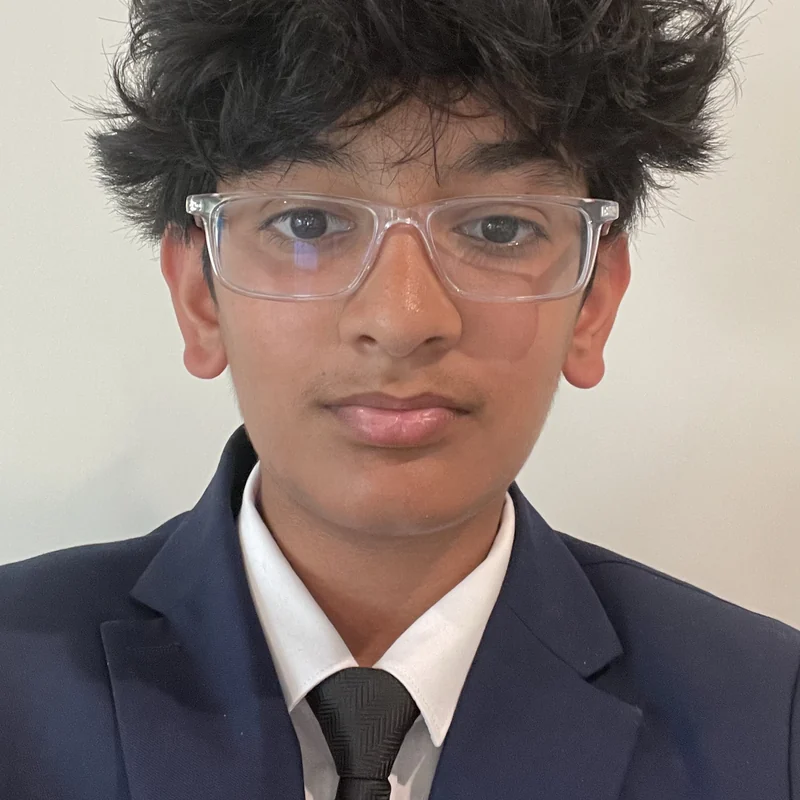
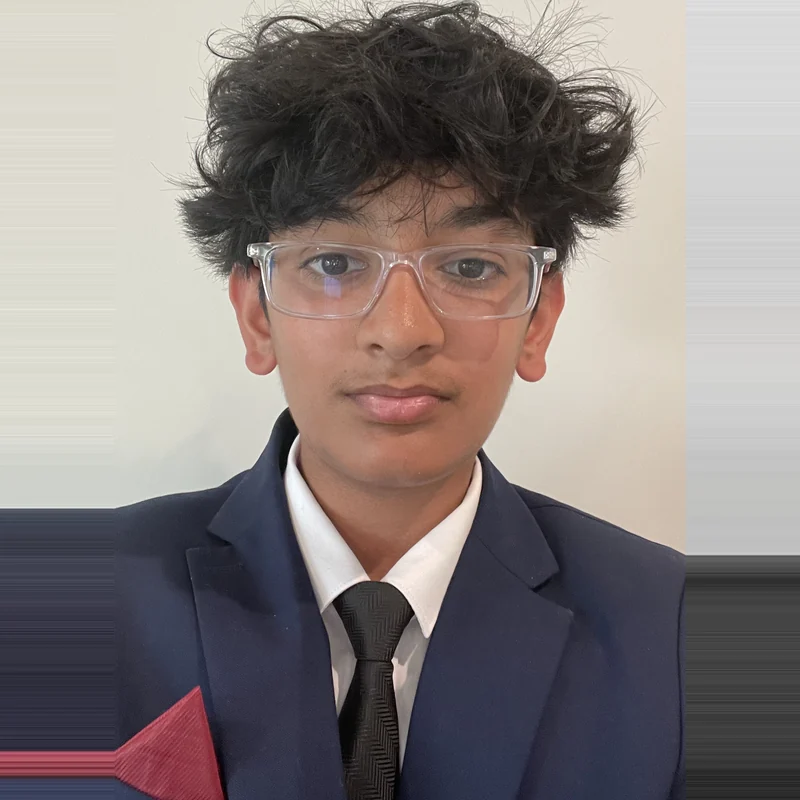
Add Nikita's photo, update three bios, advance school years
All twelve members now have a real photo; no Gravatar placeholders
remain on the team page.

Ridhun's photo is reframed wider. The source is a tight close-up with no
room left to crop into, so the canvas is extended using edge replication
before cropping. His background is a flat wall, which extends invisibly,
and the suit rows extend as suit rather than smearing wall colour across
them. Tested 20, 35 and 50 percent extension; 20 reads naturally while
50 shows visible banding.

Bios replaced verbatim as supplied for Ridhun Gujja, Hareeth Dhayanandh,
and Yutika Kedia.

School years advanced by one for everyone except Vishnu Mysore and
Yutika Kedia, whose supplied descriptions were already current:
  freshman  -> sophomore : Ridhun, Yashas, Evina, Neil, Sri
  sophomore -> junior    : Hareeth
  junior    -> senior    : Devkrishna, Nandana, Nikita, Akhil

Note that the supplied text for Ridhun and Hareeth repeated their old
years, freshman and sophomore, so the advance was applied on top of it.

Verified in Chromium: 12 member cards, 6 former, 12 images decode, zero
placeholders.

Claude-Session: https://claude.ai/code/session_019kmBwAq2FHfzFcHek2WE7v

diff --git a/team/index.html b/team/index.html
@@ -347,7 +347,7 @@
           <div class="member-name">Ridhun Gujja</div>
           <div class="member-role">Cofounder / Co-President</div>
           <div class="member-divider"></div>
-          <div class="member-bio">Hello! My name is Ridhun Gujja, and I am a freshman at the Charter School of Wilmington. Outside of SkillSphere, I am involved in BPA, Debate, Model UN, Youth in Government, and varsity Crew. In my free time, I enjoy playing badminton, cooking, and spending time with friends and family. In the future, my goal for SkillSphere is to combine STEM and business thinking by creating opportunities for students to build practical, real-world skills early on, and grow access to our free resources nationwide!</div>
+          <div class="member-bio">Hi! My name’s Ridhun Gujja, and I am a sophomore at the Charter School of Wilmington. Outside of SkillSphere, I am involved in BPA, Debate, MUN, YIG, my school newspaper and I row for my school’s crew team. In my free time, I enjoy playing badminton, cooking, and spending time with friends. In the future, my goal for SkillSphere is to combine both STEM and business thinking by creating opportunities for students to build practical, real-world skills early on, and grow access to our free resources nationwide!</div>
         </article>
 
         <article class="member-card">
@@ -362,7 +362,7 @@
           <div class="member-name">Devkrishna Manappattu</div>
           <div class="member-role">Cofounder / Co-President</div>
           <div class="member-divider"></div>
-          <div class="member-bio">Hi! My name is Devkrishna Manappattu, and I am junior at Appoquinuimink High School. Some of my interests include photography, cooking, listening to music, and playing volleyball. As a student who is deeply involved in business-related activities, I quickly became passionate and committed to creating an accessible business curriculum for youth. In the future, I hope to grow SkillSphere further to inspire and provide equitable resources for my community!</div>
+          <div class="member-bio">Hi! My name is Devkrishna Manappattu, and I am senior at Appoquinuimink High School. Some of my interests include photography, cooking, listening to music, and playing volleyball. As a student who is deeply involved in business-related activities, I quickly became passionate and committed to creating an accessible business curriculum for youth. In the future, I hope to grow SkillSphere further to inspire and provide equitable resources for my community!</div>
         </article>
 
         <!-- Row 2 -->
@@ -378,7 +378,7 @@
           <div class="member-name">Nandana Padmaraj</div>
           <div class="member-role">Director of Operations</div>
           <div class="member-divider"></div>
-          <div class="member-bio">Hi! My name is Nandana Padmaraj, I am a junior at Garnet Valley, and I am looking to go into Data Analytics and MIS. I am involved in many clubs, including FBLA and TSA, as well as having the opportunity to hold multiple treasury positions to pursue my interests. Furthermore, I have a couple of ongoing investment research projects, and I love to volunteer and support my community. In the future, I am excited to expand Skillsphere as well as take my learning to a professional level.</div>
+          <div class="member-bio">Hi! My name is Nandana Padmaraj, I am a senior at Garnet Valley, and I am looking to go into Data Analytics and MIS. I am involved in many clubs, including FBLA and TSA, as well as having the opportunity to hold multiple treasury positions to pursue my interests. Furthermore, I have a couple of ongoing investment research projects, and I love to volunteer and support my community. In the future, I am excited to expand Skillsphere as well as take my learning to a professional level.</div>
         </article>
 
         <article class="member-card">
@@ -393,20 +393,23 @@
           <div class="member-name">Yashas Chittimalla</div>
           <div class="member-role">Cofounder / Treasurer</div>
           <div class="member-divider"></div>
-          <div class="member-bio">Hey, everyone! I'm Yashas Chittimalla, and I'm currently a freshman at Newark Charter High School. Apart from Skillsphere, I'm involved in BPA, TSA, Student Council, Math League, and my school's Varsity Tennis team. I'm interested in tech, business, and finance, which is why I'm so passionate about SkillSphere. I love participating in competitions and investing in the market, and I'm always looking for new ways to learn and improve. In my free time, I play tennis and pickleball; watch football;  and bake cookies.</div>
+          <div class="member-bio">Hey, everyone! I'm Yashas Chittimalla, and I'm currently a sophomore at Newark Charter High School. Apart from Skillsphere, I'm involved in BPA, TSA, Student Council, Math League, and my school's Varsity Tennis team. I'm interested in tech, business, and finance, which is why I'm so passionate about SkillSphere. I love participating in competitions and investing in the market, and I'm always looking for new ways to learn and improve. In my free time, I play tennis and pickleball; watch football;  and bake cookies.</div>
         </article>
 
         <!-- Row 3 -->
         <article class="member-card">
           <div class="photo-rail">
             <div class="photo-badge">
-              <img src="https://www.gravatar.com/avatar/?d=mp&s=320" alt="Nikita Iyer" />
+              <img src="../images/team/nikita-iyer-400.webp"
+                   srcset="../images/team/nikita-iyer-400.webp 400w, ../images/team/nikita-iyer-800.webp 800w"
+                   sizes="128px" width="128" height="128" loading="lazy"
+                   alt="Nikita Iyer" />
             </div>
           </div>
           <div class="member-name">Nikita Iyer</div>
           <div class="member-role">Fundraising Director</div>
           <div class="member-divider"></div>
-          <div class="member-bio">Hi! My name is Nikita Iyer, and I am a junior at Charter School of Wilmington. I am involved in various clubs and organizations, and I am passionate about giving back to my community. I love to volunteer and participate in events that make a difference.</div>
+          <div class="member-bio">Hi! My name is Nikita Iyer, and I am a senior at Charter School of Wilmington. I am involved in various clubs and organizations, and I am passionate about giving back to my community. I love to volunteer and participate in events that make a difference.</div>
         </article>
 
         <article class="member-card">
@@ -421,7 +424,7 @@
           <div class="member-name">Yutika Kedia</div>
           <div class="member-role">Editor-in-Chief</div>
           <div class="member-divider"></div>
-          <div class="member-bio">Hi! My name is Yutika Kedia and I am a Junior at Middletown High School.</div>
+          <div class="member-bio">Hi! My name is Yutika Kedia and I am a senior at Middletown High school. As a part of the Outreach team, I focus on building partnerships and strengthening Skillsphere’s connections within the community. I enjoy building these relationships because I get a chance to expand our network and bring valuable opportunities to students. Outside of Skillsphere, I am involved in BPA, dance, and lacrosse. In my free time, I love hanging out with my friends, reading, traveling, and trying new foods!</div>
         </article>
 
         <article class="member-card">
@@ -436,7 +439,7 @@
           <div class="member-name">Hareeth Dhayanandh</div>
           <div class="member-role">Marketing Director</div>
           <div class="member-divider"></div>
-          <div class="member-bio">I'm Hareeth Dhayanandh, a sophomore at MOT Charter High School with a strong interest in business and leadership. I'm a state champion in speech and debate and serve as president of my school’s debate club, where I help lead and prepare students for competition. I'm also the Parliamentarian for my BPA chapter, contributing to organization and leadership within the team. Alongside my school activities, I run an online business, which has helped me build real-world skills in entrepreneurship and decision-making. I'm focused on continuing to grow as a leader and pursuing business at a top college.</div>
+          <div class="member-bio">I'm Hareeth Dhayanandh, a junior at MOT Charter High School with a strong interest in business and leadership. I'm a state champion in speech and debate and serve as president of my school’s debate club, where I help lead and prepare students for competition. I'm also the Parliamentarian for my BPA chapter, contributing to organization and leadership within the team. Alongside my school activities, I run an online business and I'm focused on continuing to grow as a leader and pursuing business.</div>
         </article>
 
         <!-- Row 4 -->
@@ -453,7 +456,7 @@
           <div class="member-name">Akhil Gajula</div>
           <div class="member-role">Outreach Coordinator</div>
           <div class="member-divider"></div>
-          <div class="member-bio">Hi! My name is Akhil Gajula, and I am a junior at MOT Charter School. I am passionate about outreach and community engagement, and I enjoy working with diverse groups of people to create meaningful connections.</div>
+          <div class="member-bio">Hi! My name is Akhil Gajula, and I am a senior at MOT Charter School. I am passionate about outreach and community engagement, and I enjoy working with diverse groups of people to create meaningful connections.</div>
         </article>
 
         <!-- Row 5 -->
@@ -469,7 +472,7 @@
           <div class="member-name">Evina Shingavi</div>
           <div class="member-role">STEM Mentor</div>
           <div class="member-divider"></div>
-          <div class="member-bio">Hi! My name is Evina Shingavi, and I am a freshman at MOT Charter School.</div>
+          <div class="member-bio">Hi! My name is Evina Shingavi, and I am a sophomore at MOT Charter School.</div>
         </article>
 
         <article class="member-card">
@@ -484,7 +487,7 @@
           <div class="member-name">Neil Virani</div>
           <div class="member-role">STEM Mentor</div>
           <div class="member-divider"></div>
-          <div class="member-bio">Hello! My name is Neil Virani, and I am a freshman at Appoquinimink High School. Some of my hobbies are swimming, running, and coding. Outside of skillsphere, I'm involved in BPA, TSA, Math League, VEX Robotics, Student Government, and varsity swim. I am very interested in tech and finance, which is why the SkillSphere Foundation means so much to me. As a student who is involved in technology, my goal is to create equal access to learning resources online for everyone!</div>
+          <div class="member-bio">Hello! My name is Neil Virani, and I am a sophomore at Appoquinimink High School. Some of my hobbies are swimming, running, and coding. Outside of skillsphere, I'm involved in BPA, TSA, Math League, VEX Robotics, Student Government, and varsity swim. I am very interested in tech and finance, which is why the SkillSphere Foundation means so much to me. As a student who is involved in technology, my goal is to create equal access to learning resources online for everyone!</div>
         </article>
 
         <article class="member-card">
@@ -514,7 +517,7 @@
           <div class="member-name">Sri Vayuvegula</div>
           <div class="member-role">Workshop Coordinator</div>
           <div class="member-divider"></div>
-          <div class="member-bio">Hi! My name is Sri Vayuvegula, and I am a freshman at Charter School of Wilmington. I am involved in BPA, FTC Robotics, and nonprofit organizations like SkillSphere, Helios Care Foundation, and CureQuest. I am also a varsity volleyball player and enjoy cricket, pickleball, and listening to music. I am passionate about using technology to create innovative solutions that positively impact communities, and in the future, I hope to become a robotics engineer!</div>
+          <div class="member-bio">Hi! My name is Sri Vayuvegula, and I am a sophomore at Charter School of Wilmington. I am involved in BPA, FTC Robotics, and nonprofit organizations like SkillSphere, Helios Care Foundation, and CureQuest. I am also a varsity volleyball player and enjoy cricket, pickleball, and listening to music. I am passionate about using technology to create innovative solutions that positively impact communities, and in the future, I hope to become a robotics engineer!</div>
         </article>
 
       </section>
